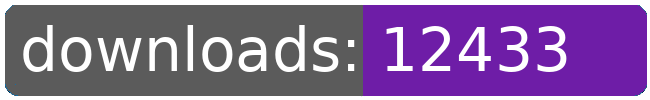
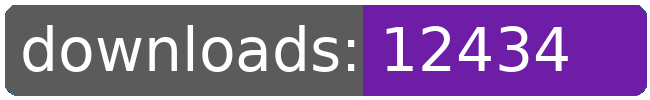
dl log written

Changed region(s): [[0.8, 0.24, 0.8923, 0.72]]

diff --git a/README.md b/README.md
@@ -21,8 +21,8 @@
 		<td>932</td>
 		<td>964</td>
 		<td>994</td>
-		<td>1002</td>
-		<td>+ 8</td>
+		<td>1003</td>
+		<td>+ 9</td>
 	</tr>
 	<tr>
 		<td>aberrant.kahet.outfitter</td>
@@ -186,8 +186,8 @@
 		<td></td>
 		<td></td>
 		<td></td>
-		<td>12433</td>
-		<td>129</td>
+		<td>12434</td>
+		<td>130</td>
 	</tr>
 </table>
 </sub></sup>
@@ -245,8 +245,8 @@
 		<td>932</td>
 		<td>964</td>
 		<td>994</td>
-		<td>1002</td>
-		<td>+ 8</td>
+		<td>1003</td>
+		<td>+ 9</td>
 	</tr>
 	<tr>
 		<td>purchase.bactrian</td>
@@ -377,8 +377,8 @@
 		<td></td>
 		<td></td>
 		<td></td>
-		<td>12433</td>
-		<td>129</td>
+		<td>12434</td>
+		<td>130</td>
 	</tr>
 </table>
 </sub></sup>
@@ -406,7 +406,7 @@
 		<td>52</td>
 		<td>20</td>
 		<td>8</td>
-		<td>5</td>
+		<td>7</td>
 	</tr>
 	<tr>
 		<td>unique visitors</td>
@@ -418,7 +418,7 @@
 		<td>8</td>
 		<td>9</td>
 		<td>6</td>
-		<td>4</td>
+		<td>6</td>
 	</tr>
 </table>
 <br>
@@ -432,8 +432,8 @@
 	</tr>
 	<tr>
 		<td>2025-10-15</td>
-		<td>1889</td>
-		<td>345</td>
+		<td>1891</td>
+		<td>347</td>
 		<td>192</td>
 		<td>21</td>
 	</tr>
@@ -446,8 +446,8 @@
 	</tr>
 	<tr>
 		<td>38</td>
-		<td>49.71</td>
-		<td>9.08</td>
+		<td>49.76</td>
+		<td>9.13</td>
 		<td></td>
 		<td></td>
 	</tr>
